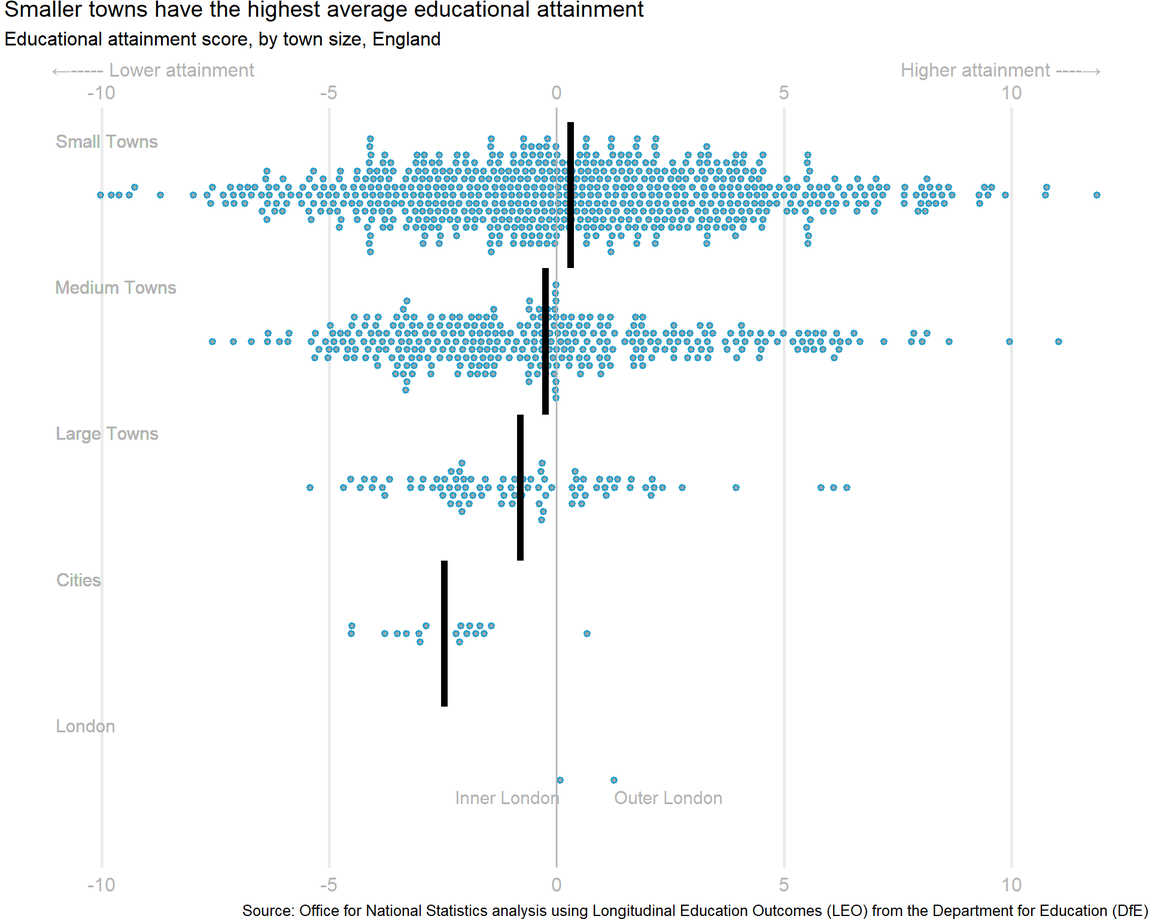
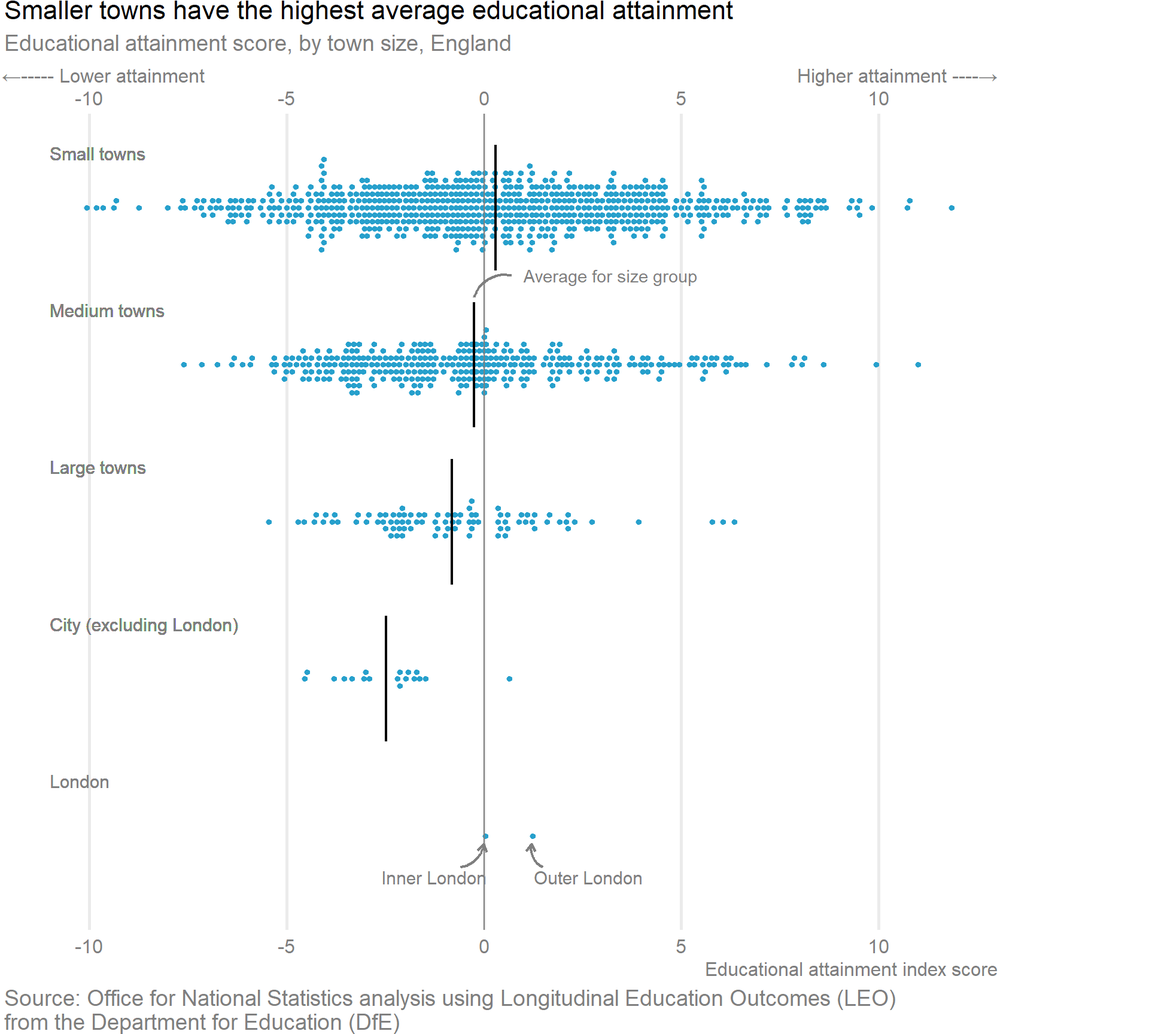
0.052

diff --git a/docs/dot.html b/docs/dot.html
@@ -445,7 +445,11 @@ pre > code.sourceCode > span > a:first-child::before { text-decoration: underlin
   
 
 
-</header><div class="cell">
+</header><div class="quarto-figure quarto-figure-center">
+<figure class="figure"><p><a href="https://www.ons.gov.uk/peoplepopulationandcommunity/educationandchildcare/articles/whydochildrenandyoungpeopleinsmallertownsdobetteracademicallythanthoseinlargertowns/2023-07-25"><img src="img/dot.png" class="img-fluid figure-img" alt="The original graph obtained from Office for National Statistics analysis using Longitudinal Education Outcomes (LEO) from the Department for Education (DfE)"></a></p>
+<figcaption>The original graph obtained from Office for National Statistics analysis using Longitudinal Education Outcomes (LEO) from the Department for Education (DfE)</figcaption></figure>
+</div>
+<div class="cell">
 <div class="sourceCode" id="cb1"><pre class="downlit sourceCode r code-with-copy"><code class="sourceCode R"><span><span class="kw"><a href="https://rdrr.io/r/base/library.html">library</a></span><span class="op">(</span><span class="va"><a href="https://tidyverse.tidyverse.org">tidyverse</a></span><span class="op">)</span>      <span class="co"># Data Wrangling and Plotting</span></span>
 <span><span class="kw"><a href="https://rdrr.io/r/base/library.html">library</a></span><span class="op">(</span><span class="va"><a href="https://here.r-lib.org/">here</a></span><span class="op">)</span>           <span class="co"># Files location and loading</span></span>
 <span><span class="kw"><a href="https://rdrr.io/r/base/library.html">library</a></span><span class="op">(</span><span class="va"><a href="https://github.com/yixuan/showtext">showtext</a></span><span class="op">)</span>       <span class="co"># Using Fonts More Easily in R Graphs</span></span>
@@ -469,13 +473,8 @@ pre > code.sourceCode > span > a:first-child::before { text-decoration: underlin
 <span><span class="va">ts</span> <span class="op">=</span> <span class="fu"><a href="https://rdrr.io/r/grid/unit.html">unit</a></span><span class="op">(</span><span class="fl">20</span>, units <span class="op">=</span> <span class="st">"cm"</span><span class="op">)</span>   </span></code><button title="Copy to Clipboard" class="code-copy-button"><i class="bi"></i></button></pre></div>
 </div>
 <div class="cell">
-<div class="sourceCode" id="cb3"><pre class="downlit sourceCode r code-with-copy"><code class="sourceCode R"><span><span class="co">#==============================================================================#</span></span>
-<span><span class="co"># Data Wrangling----------------------------------------------------------------</span></span>
-<span><span class="co">#==============================================================================#</span></span>
+<div class="sourceCode" id="cb3"><pre class="downlit sourceCode r code-with-copy"><code class="sourceCode R"><span><span class="va">city_levels</span> <span class="op">&lt;-</span> <span class="fu"><a href="https://rdrr.io/r/base/c.html">c</a></span><span class="op">(</span><span class="st">"Small Towns"</span>, <span class="st">"Medium Towns"</span>, <span class="st">"Large Towns"</span>, <span class="st">"Cities"</span>, <span class="st">"London"</span><span class="op">)</span></span>
 <span></span>
-<span><span class="va">city_levels</span> <span class="op">&lt;-</span> <span class="fu"><a href="https://rdrr.io/r/base/c.html">c</a></span><span class="op">(</span><span class="st">"Small Towns"</span>, <span class="st">"Medium Towns"</span>, <span class="st">"Large Towns"</span>, <span class="st">"Cities"</span>, <span class="st">"London"</span><span class="op">)</span></span>
-<span></span>
-<span><span class="va">inc_levels</span> <span class="op">=</span> <span class="fu"><a href="https://rdrr.io/r/base/c.html">c</a></span><span class="op">(</span><span class="st">"Poorer Towns"</span>, <span class="st">"Mid-Income Towns"</span>, <span class="st">"Richer Towns"</span>, <span class="st">"Cities"</span><span class="op">)</span></span>
 <span></span>
 <span><span class="va">df</span> <span class="op">&lt;-</span> <span class="va">english_education</span> <span class="op">|&gt;</span> </span>
 <span>  <span class="co"># Add populations of Inner and Outer London</span></span>
@@ -497,36 +496,22 @@ pre > code.sourceCode > span > a:first-child::before { text-decoration: underlin
 <span>    <span class="va">size_flag</span> <span class="op"><a href="https://rdrr.io/r/base/match.html">%in%</a></span> <span class="va">city_levels</span></span>
 <span>  <span class="op">)</span> <span class="op">|&gt;</span> </span>
 <span>  <span class="fu"><a href="https://dplyr.tidyverse.org/reference/mutate.html">mutate</a></span><span class="op">(</span></span>
-<span>    size_flag <span class="op">=</span> <span class="fu"><a href="https://forcats.tidyverse.org/reference/fct.html">fct</a></span><span class="op">(</span><span class="va">size_flag</span>, levels <span class="op">=</span> <span class="va">city_levels</span><span class="op">)</span>,</span>
+<span>    size_flag <span class="op">=</span> <span class="fu"><a href="https://rdrr.io/r/base/factor.html">factor</a></span><span class="op">(</span><span class="va">size_flag</span>, levels <span class="op">=</span> <span class="va">city_levels</span>, labels <span class="op">=</span> <span class="fu"><a href="https://rdrr.io/r/base/c.html">c</a></span><span class="op">(</span><span class="st">"Small towns"</span>, <span class="st">"Medium towns"</span>, <span class="st">"Large towns"</span>, <span class="st">"City (excluding London)"</span>, <span class="st">"London"</span><span class="op">)</span><span class="op">)</span>,</span>
 <span>    size_flag <span class="op">=</span> <span class="fu"><a href="https://forcats.tidyverse.org/reference/fct_rev.html">fct_rev</a></span><span class="op">(</span><span class="va">size_flag</span><span class="op">)</span></span>
-<span>  <span class="op">)</span> <span class="op">|&gt;</span> </span>
-<span>  <span class="fu"><a href="https://dplyr.tidyverse.org/reference/mutate.html">mutate</a></span><span class="op">(</span></span>
-<span>    income_flag <span class="op">=</span> <span class="fu"><a href="https://dplyr.tidyverse.org/reference/case_when.html">case_when</a></span><span class="op">(</span></span>
-<span>      <span class="va">income_flag</span> <span class="op"><a href="https://rdrr.io/r/base/match.html">%in%</a></span> <span class="fu"><a href="https://rdrr.io/r/base/c.html">c</a></span><span class="op">(</span><span class="st">"Cities"</span>, <span class="cn">NA</span><span class="op">)</span> <span class="op">~</span> <span class="st">"Cities"</span>,</span>
-<span>      <span class="va">income_flag</span> <span class="op">==</span> <span class="st">"Higher deprivation towns"</span> <span class="op">~</span> <span class="st">"Poorer Towns"</span>,</span>
-<span>      <span class="va">income_flag</span> <span class="op">==</span> <span class="st">"Mid deprivation towns"</span> <span class="op">~</span> <span class="st">"Mid-Income Towns"</span>,</span>
-<span>      <span class="va">income_flag</span> <span class="op">==</span> <span class="st">"Lower deprivation towns"</span> <span class="op">~</span> <span class="st">"Richer Towns"</span></span>
-<span>    <span class="op">)</span>,</span>
-<span>    income_flag <span class="op">=</span> <span class="fu"><a href="https://forcats.tidyverse.org/reference/fct.html">fct</a></span><span class="op">(</span><span class="va">income_flag</span>,</span>
-<span>                      levels <span class="op">=</span> <span class="va">inc_levels</span><span class="op">)</span></span>
 <span>  <span class="op">)</span></span>
 <span></span>
-<span><span class="co"># Weighted mean educational attainment scores</span></span>
+<span><span class="co"># mean educational attainment scores</span></span>
 <span><span class="va">df1</span> <span class="op">&lt;-</span> <span class="va">df</span> <span class="op">|&gt;</span> </span>
 <span>  <span class="fu"><a href="https://dplyr.tidyverse.org/reference/group_by.html">group_by</a></span><span class="op">(</span><span class="va">size_flag</span><span class="op">)</span> <span class="op">|&gt;</span> </span>
 <span>  <span class="fu"><a href="https://dplyr.tidyverse.org/reference/summarise.html">summarise</a></span><span class="op">(</span></span>
-<span>    mean_ed_score <span class="op">=</span> <span class="fu"><a href="https://rdrr.io/r/base/mean.html">mean</a></span><span class="op">(</span><span class="va">education_score</span>, na.rm <span class="op">=</span> <span class="cn">T</span><span class="op">)</span>,</span>
-<span>    med_ed_score <span class="op">=</span> <span class="fu"><a href="https://rdrr.io/r/stats/median.html">median</a></span><span class="op">(</span><span class="va">education_score</span>, na.rm <span class="op">=</span> <span class="cn">T</span><span class="op">)</span>,</span>
-<span>    w_mean <span class="op">=</span> <span class="fu"><a href="https://rdrr.io/r/stats/weighted.mean.html">weighted.mean</a></span><span class="op">(</span>x <span class="op">=</span> <span class="va">education_score</span>,</span>
-<span>                           w <span class="op">=</span> <span class="va">population_2011</span>,</span>
-<span>                           na.rm <span class="op">=</span> <span class="cn">T</span><span class="op">)</span></span>
+<span>    mean_ed_score <span class="op">=</span> <span class="fu"><a href="https://rdrr.io/r/base/mean.html">mean</a></span><span class="op">(</span><span class="va">education_score</span>, na.rm <span class="op">=</span> <span class="cn">T</span><span class="op">)</span>, na.rm <span class="op">=</span> <span class="cn">T</span></span>
 <span>  <span class="op">)</span> <span class="op">|&gt;</span> </span>
 <span>  <span class="fu"><a href="https://dplyr.tidyverse.org/reference/filter.html">filter</a></span><span class="op">(</span><span class="va">size_flag</span><span class="op">!=</span><span class="st">"London"</span><span class="op">)</span></span>
 <span></span>
 <span><span class="co"># Overall weighted mean Educational Attainment Score for UK</span></span>
 <span><span class="va">uk_mean</span> <span class="op">&lt;-</span> <span class="va">df</span> <span class="op">|&gt;</span> </span>
 <span>  <span class="fu"><a href="https://dplyr.tidyverse.org/reference/summarise.html">summarize</a></span><span class="op">(</span></span>
-<span>    uk_mean <span class="op">=</span> <span class="fu"><a href="https://rdrr.io/r/stats/weighted.mean.html">weighted.mean</a></span><span class="op">(</span><span class="va">education_score</span>, w <span class="op">=</span> <span class="va">population_2011</span><span class="op">)</span></span>
+<span>    uk_mean <span class="op">=</span> <span class="fu"><a href="https://rdrr.io/r/base/mean.html">mean</a></span><span class="op">(</span><span class="va">education_score</span><span class="op">)</span></span>
 <span>  <span class="op">)</span> <span class="op">|&gt;</span> </span>
 <span>  <span class="fu"><a href="https://purrr.tidyverse.org/reference/as_vector.html">as_vector</a></span><span class="op">(</span><span class="op">)</span> <span class="op">|&gt;</span> </span>
 <span>  <span class="fu"><a href="https://rdrr.io/r/base/unname.html">unname</a></span><span class="op">(</span><span class="op">)</span></span>
@@ -546,61 +531,80 @@ pre > code.sourceCode > span > a:first-child::before { text-decoration: underlin
 <span>  <span class="op">)</span> <span class="op">|&gt;</span></span>
 <span>  <span class="fu"><a href="https://dplyr.tidyverse.org/reference/filter.html">filter</a></span><span class="op">(</span><span class="va">town_name</span> <span class="op"><a href="https://rdrr.io/r/base/match.html">%in%</a></span> <span class="va">label_cities</span><span class="op">)</span></span>
 <span></span>
-<span><span class="co">#==============================================================================#</span></span>
-<span><span class="co"># Options &amp; Visualization Parameters--------------------------------------------</span></span>
-<span><span class="co">#==============================================================================#</span></span>
-<span></span>
 <span><span class="va">plot_caption</span> <span class="op">&lt;-</span> <span class="fu"><a href="https://rdrr.io/r/base/paste.html">paste0</a></span><span class="op">(</span><span class="st">"**Data &amp; Inspiration:** Center for Public Integrity | "</span>, <span class="st">"**Graphics:** "</span><span class="op">)</span></span></code><button title="Copy to Clipboard" class="code-copy-button"><i class="bi"></i></button></pre></div>
 </div>
 <div class="cell page-columns page-full">
-<div class="sourceCode" id="cb4"><pre class="downlit sourceCode r code-with-copy"><code class="sourceCode R"><span><span class="co">#==============================================================================#</span></span>
-<span><span class="co"># Data Visualization------------------------------------------------------------</span></span>
-<span><span class="co">#==============================================================================#</span></span>
-<span><span class="co"># For Beeswarm</span></span>
-<span><span class="kw"><a href="https://rdrr.io/r/base/library.html">library</a></span><span class="op">(</span><span class="va"><a href="https://github.com/eclarke/ggbeeswarm">ggbeeswarm</a></span><span class="op">)</span></span></code><button title="Copy to Clipboard" class="code-copy-button"><i class="bi"></i></button></pre></div>
-<div class="cell-output cell-output-stderr">
-<pre><code>Warning: package 'ggbeeswarm' was built under R version 4.3.1</code></pre>
-</div>
-<div class="sourceCode" id="cb6"><pre class="downlit sourceCode r code-with-copy"><code class="sourceCode R"><span><span class="co"># For vertical markers</span></span>
-<span><span class="co">#devtools::install_github("wilkelab/ungeviz")</span></span>
-<span><span class="kw"><a href="https://rdrr.io/r/base/library.html">library</a></span><span class="op">(</span><span class="va"><a href="https://github.com/wilkelab/ungeviz">ungeviz</a></span><span class="op">)</span></span>
-<span></span>
-<span><span class="fu"><a href="https://ggplot2.tidyverse.org/reference/ggplot.html">ggplot</a></span><span class="op">(</span>data <span class="op">=</span> <span class="va">df</span><span class="op">)</span> <span class="op">+</span></span>
-<span>  <span class="fu">ggdist</span><span class="fu">::</span><span class="fu"><a href="http://mjskay.github.io/ggdist/reference/geom_dots.html">geom_dots</a></span><span class="op">(</span><span class="fu"><a href="https://ggplot2.tidyverse.org/reference/aes.html">aes</a></span><span class="op">(</span>x <span class="op">=</span> <span class="va">education_score</span>, y <span class="op">=</span> <span class="va">size_flag</span><span class="op">)</span>, side <span class="op">=</span> <span class="st">"both"</span>, layout <span class="op">=</span> <span class="st">"weave"</span>,</span>
-<span>                            color <span class="op">=</span> <span class="st">"#27A0CC"</span>, </span>
-<span>                            size<span class="op">=</span> <span class="fl">1.0</span><span class="op">)</span> <span class="op">+</span></span>
-<span>  <span class="fu"><a href="https://ggplot2.tidyverse.org/reference/geom_text.html">geom_text</a></span><span class="op">(</span><span class="fu"><a href="https://ggplot2.tidyverse.org/reference/aes.html">aes</a></span><span class="op">(</span>x <span class="op">=</span> <span class="op">-</span><span class="fl">11</span>, y <span class="op">=</span> <span class="va">size_flag</span>, label <span class="op">=</span> <span class="va">size_flag</span><span class="op">)</span>, color <span class="op">=</span> <span class="st">"grey70"</span>,</span>
-<span>            size<span class="op">=</span> <span class="fl">4.0</span>, vjust <span class="op">=</span> <span class="op">-</span><span class="fl">3.5</span>, hjust <span class="op">=</span> <span class="fl">0.01</span><span class="op">)</span> <span class="op">+</span> </span>
-<span>  <span class="fu"><a href="https://rdrr.io/pkg/ungeviz/man/geom_hpline.html">geom_vpline</a></span><span class="op">(</span>data <span class="op">=</span> <span class="va">df1</span>, mapping <span class="op">=</span> <span class="fu"><a href="https://ggplot2.tidyverse.org/reference/aes.html">aes</a></span><span class="op">(</span>x <span class="op">=</span> <span class="va">mean_ed_score</span>, y <span class="op">=</span> <span class="va">size_flag</span><span class="op">)</span>,</span>
-<span>              height <span class="op">=</span> <span class="fl">1.0</span>, size <span class="op">=</span> <span class="fl">0.1</span><span class="op">)</span> <span class="op">+</span></span>
-<span>  <span class="fu"><a href="https://ggplot2.tidyverse.org/reference/geom_abline.html">geom_vline</a></span><span class="op">(</span>xintercept <span class="op">=</span> <span class="fl">0</span>, linetype <span class="op">=</span> <span class="fl">1</span>, color <span class="op">=</span> <span class="st">"grey70"</span><span class="op">)</span> <span class="op">+</span></span>
-<span>  <span class="fu"><a href="https://ggplot2.tidyverse.org/reference/geom_text.html">geom_text</a></span><span class="op">(</span>data <span class="op">=</span> <span class="va">df2</span>, color <span class="op">=</span> <span class="st">"grey70"</span>,</span>
+<div class="sourceCode" id="cb4"><pre class="downlit sourceCode r code-with-copy"><code class="sourceCode R"><span><span class="fu"><a href="https://ggplot2.tidyverse.org/reference/ggplot.html">ggplot</a></span><span class="op">(</span>data <span class="op">=</span> <span class="va">df</span>, <span class="fu"><a href="https://ggplot2.tidyverse.org/reference/aes.html">aes</a></span><span class="op">(</span>x <span class="op">=</span> <span class="va">education_score</span>, y <span class="op">=</span> <span class="va">size_flag</span><span class="op">)</span>, <span class="op">)</span> <span class="op">+</span></span>
+<span>  <span class="fu">ggdist</span><span class="fu">::</span><span class="fu"><a href="http://mjskay.github.io/ggdist/reference/geom_dots.html">geom_dots</a></span><span class="op">(</span>side <span class="op">=</span> <span class="st">"both"</span>, layout <span class="op">=</span> <span class="st">"hex"</span>, slab_shape <span class="op">=</span> <span class="fl">21</span>, width<span class="op">=</span><span class="fl">0.7</span>,</span>
+<span>                            slab_color <span class="op">=</span> <span class="st">"#27A0CC"</span>, slab_fill <span class="op">=</span> <span class="st">"#27A0CC"</span>,</span>
+<span>                    scale <span class="op">=</span> <span class="fl">0.62</span>,</span>
+<span>                            dotsize<span class="op">=</span> <span class="fl">1.5</span><span class="op">)</span> <span class="op">+</span></span>
+<span>  <span class="fu"><a href="https://ggplot2.tidyverse.org/reference/geom_text.html">geom_text</a></span><span class="op">(</span><span class="fu"><a href="https://ggplot2.tidyverse.org/reference/aes.html">aes</a></span><span class="op">(</span>x <span class="op">=</span> <span class="op">-</span><span class="fl">11</span>, y <span class="op">=</span> <span class="va">size_flag</span>, label <span class="op">=</span> <span class="va">size_flag</span><span class="op">)</span>, color <span class="op">=</span> <span class="st">"grey50"</span>, </span>
+<span>            size<span class="op">=</span> <span class="fl">4.0</span>, vjust <span class="op">=</span> <span class="op">-</span><span class="fl">3.5</span>, hjust <span class="op">=</span> <span class="fl">0</span><span class="op">)</span> <span class="op">+</span> </span>
+<span>  <span class="fu"><a href="https://ggplot2.tidyverse.org/reference/geom_abline.html">geom_vline</a></span><span class="op">(</span>xintercept <span class="op">=</span> <span class="fl">0</span>, linetype <span class="op">=</span> <span class="fl">1</span>, color <span class="op">=</span> <span class="st">"grey50"</span><span class="op">)</span> <span class="op">+</span></span>
+<span>  <span class="fu"><a href="https://ggplot2.tidyverse.org/reference/geom_text.html">geom_text</a></span><span class="op">(</span>data <span class="op">=</span> <span class="va">df2</span>, color <span class="op">=</span> <span class="st">"grey50"</span>, vjust <span class="op">=</span> <span class="op">+</span> <span class="fl">3.5</span>,</span>
 <span>            mapping <span class="op">=</span> <span class="fu"><a href="https://ggplot2.tidyverse.org/reference/aes.html">aes</a></span><span class="op">(</span>x <span class="op">=</span> <span class="va">education_score</span>, y <span class="op">=</span> <span class="va">size_flag</span>,</span>
 <span>                          label <span class="op">=</span> <span class="va">town_name</span>, hjust <span class="op">=</span> <span class="fu"><a href="https://dplyr.tidyverse.org/reference/case_when.html">case_when</a></span><span class="op">(</span><span class="va">town_name</span> <span class="op">==</span> <span class="st">"Outer London"</span> <span class="op">~</span> <span class="fl">0</span>, </span>
 <span>                                                               <span class="va">town_name</span> <span class="op"><a href="https://rdrr.io/r/base/match.html">%in%</a></span> <span class="fu"><a href="https://rdrr.io/r/base/c.html">c</a></span><span class="op">(</span><span class="st">"Inner London"</span>, <span class="st">"Olney"</span><span class="op">)</span> <span class="op">~</span> <span class="fl">1</span>,</span>
 <span>                                                                           .default <span class="op">=</span> <span class="fl">0.5</span><span class="op">)</span><span class="op">)</span>,</span>
 <span>            vjust <span class="op">=</span> <span class="fl">1.7</span>, size <span class="op">=</span> <span class="fl">0.2</span> <span class="op">*</span> <span class="va">ts</span><span class="op">)</span> <span class="op">+</span></span>
 <span>  <span class="fu"><a href="https://ggplot2.tidyverse.org/reference/scale_continuous.html">scale_x_continuous</a></span><span class="op">(</span></span>
-<span>    minor_breaks <span class="op">=</span> <span class="op">(</span><span class="op">-</span><span class="fl">10</span><span class="op">:</span><span class="fl">10</span><span class="op">)</span>, sec.axis <span class="op">=</span> <span class="fu"><a href="https://ggplot2.tidyverse.org/reference/sec_axis.html">sec_axis</a></span><span class="op">(</span><span class="op">~</span><span class="va">.</span>, name <span class="op">=</span> <span class="cn">NULL</span><span class="op">)</span>, position <span class="op">=</span> <span class="st">"top"</span></span>
+<span>    minor_breaks <span class="op">=</span> <span class="op">(</span><span class="op">-</span><span class="fl">10</span><span class="op">:</span><span class="fl">10</span><span class="op">)</span>, sec.axis <span class="op">=</span> <span class="fu"><a href="https://ggplot2.tidyverse.org/reference/sec_axis.html">sec_axis</a></span><span class="op">(</span><span class="op">~</span><span class="va">.</span>, name <span class="op">=</span> <span class="st">"Educational attainment index score"</span><span class="op">)</span>, position <span class="op">=</span> <span class="st">"top"</span></span>
 <span>  <span class="op">)</span> <span class="op">+</span></span>
 <span>  <span class="fu"><a href="https://ggplot2.tidyverse.org/reference/labs.html">labs</a></span><span class="op">(</span>title <span class="op">=</span> <span class="st">"Smaller towns have the highest average educational attainment"</span>,</span>
 <span>       subtitle <span class="op">=</span> <span class="st">"Educational attainment score, by town size, England"</span>,</span>
-<span>       x <span class="op">=</span> <span class="fu"><a href="https://rdrr.io/r/base/paste.html">paste0</a></span><span class="op">(</span><span class="st">"←----- Lower attainment"</span>, <span class="fu"><a href="https://rdrr.io/r/base/strrep.html">strrep</a></span><span class="op">(</span><span class="st">" "</span>, <span class="fl">60</span><span class="op">)</span>,  <span class="fu"><a href="https://rdrr.io/r/base/strrep.html">strrep</a></span><span class="op">(</span><span class="st">" "</span>, <span class="fl">60</span><span class="op">)</span>, <span class="st">"Higher attainment ----→"</span><span class="op">)</span>,</span>
-<span>       color <span class="op">=</span> <span class="st">"Town income\ndeprivation"</span>,</span>
-<span>       caption <span class="op">=</span> <span class="st">"Source: Office for National Statistics analysis using Longitudinal Education Outcomes (LEO) from the Department for Education (DfE)"</span><span class="op">)</span> <span class="op">+</span></span>
+<span>       x <span class="op">=</span> <span class="fu"><a href="https://rdrr.io/r/base/paste.html">paste0</a></span><span class="op">(</span><span class="st">"←----- Lower attainment"</span>, <span class="fu"><a href="https://rdrr.io/r/base/strrep.html">strrep</a></span><span class="op">(</span><span class="st">" "</span>, <span class="fl">55</span><span class="op">)</span>,  <span class="fu"><a href="https://rdrr.io/r/base/strrep.html">strrep</a></span><span class="op">(</span><span class="st">" "</span>, <span class="fl">55</span><span class="op">)</span>, <span class="st">"Higher attainment ----→"</span><span class="op">)</span>,</span>
+<span>       caption <span class="op">=</span> <span class="st">"Source: Office for National Statistics analysis using Longitudinal Education Outcomes (LEO)\nfrom the Department for Education (DfE)"</span><span class="op">)</span> <span class="op">+</span></span>
+<span>   <span class="fu"><a href="https://ggplot2.tidyverse.org/reference/annotate.html">annotate</a></span><span class="op">(</span></span>
+<span>    geom <span class="op">=</span> <span class="st">"curve"</span>,</span>
+<span>    x <span class="op">=</span> <span class="op">-</span><span class="fl">0.6</span>,</span>
+<span>    xend <span class="op">=</span> <span class="va">uk_mean</span>,</span>
+<span>    y <span class="op">=</span> <span class="fl">0.8</span>,</span>
+<span>    yend <span class="op">=</span> <span class="fl">0.95</span>,</span>
+<span>    arrow <span class="op">=</span> <span class="fu"><a href="https://rdrr.io/r/grid/arrow.html">arrow</a></span><span class="op">(</span>length <span class="op">=</span> <span class="fu"><a href="https://rdrr.io/r/grid/unit.html">unit</a></span><span class="op">(</span><span class="fl">2</span>, <span class="st">"mm"</span><span class="op">)</span><span class="op">)</span>,</span>
+<span>    curvature <span class="op">=</span> <span class="fl">0.35</span>,</span>
+<span>    color <span class="op">=</span> <span class="st">"grey50"</span>,</span>
+<span>    linewidth <span class="op">=</span> <span class="fl">0.8</span></span>
+<span>  <span class="op">)</span> <span class="op">+</span></span>
+<span>     <span class="fu"><a href="https://ggplot2.tidyverse.org/reference/annotate.html">annotate</a></span><span class="op">(</span></span>
+<span>    geom <span class="op">=</span> <span class="st">"curve"</span>,</span>
+<span>    x <span class="op">=</span> <span class="fl">1.5</span>,</span>
+<span>    xend <span class="op">=</span> <span class="fl">1.2</span>,</span>
+<span>    y <span class="op">=</span> <span class="fl">0.8</span>,</span>
+<span>    yend <span class="op">=</span> <span class="fl">0.95</span>,</span>
+<span>    arrow <span class="op">=</span> <span class="fu"><a href="https://rdrr.io/r/grid/arrow.html">arrow</a></span><span class="op">(</span>length <span class="op">=</span> <span class="fu"><a href="https://rdrr.io/r/grid/unit.html">unit</a></span><span class="op">(</span><span class="fl">2</span>, <span class="st">"mm"</span><span class="op">)</span><span class="op">)</span>,</span>
+<span>    curvature <span class="op">=</span> <span class="op">-</span> <span class="fl">0.35</span>,</span>
+<span>    color <span class="op">=</span> <span class="st">"grey50"</span>,</span>
+<span>    linewidth <span class="op">=</span> <span class="fl">0.8</span></span>
+<span>  <span class="op">)</span> <span class="op">+</span></span>
+<span>  <span class="fu"><a href="https://ggplot2.tidyverse.org/reference/annotate.html">annotate</a></span><span class="op">(</span><span class="st">"segment"</span>, x <span class="op">=</span> <span class="va">df1</span><span class="op">$</span><span class="va">mean_ed_score</span><span class="op">[</span><span class="fl">1</span><span class="op">]</span>, xend <span class="op">=</span> <span class="va">df1</span><span class="op">$</span><span class="va">mean_ed_score</span><span class="op">[</span><span class="fl">1</span><span class="op">]</span>, y <span class="op">=</span> <span class="fl">1.6</span>, yend <span class="op">=</span> <span class="fl">2.4</span>, linewidth <span class="op">=</span> <span class="fl">0.8</span><span class="op">)</span> <span class="op">+</span></span>
+<span>    <span class="fu"><a href="https://ggplot2.tidyverse.org/reference/annotate.html">annotate</a></span><span class="op">(</span><span class="st">"segment"</span>, x <span class="op">=</span> <span class="va">df1</span><span class="op">$</span><span class="va">mean_ed_score</span><span class="op">[</span><span class="fl">2</span><span class="op">]</span>, xend <span class="op">=</span> <span class="va">df1</span><span class="op">$</span><span class="va">mean_ed_score</span><span class="op">[</span><span class="fl">2</span><span class="op">]</span>, y <span class="op">=</span> <span class="fl">2.6</span>, yend <span class="op">=</span> <span class="fl">3.4</span>, linewidth <span class="op">=</span> <span class="fl">0.8</span><span class="op">)</span> <span class="op">+</span></span>
+<span>      <span class="fu"><a href="https://ggplot2.tidyverse.org/reference/annotate.html">annotate</a></span><span class="op">(</span><span class="st">"segment"</span>, x <span class="op">=</span> <span class="va">df1</span><span class="op">$</span><span class="va">mean_ed_score</span><span class="op">[</span><span class="fl">3</span><span class="op">]</span>, xend <span class="op">=</span> <span class="va">df1</span><span class="op">$</span><span class="va">mean_ed_score</span><span class="op">[</span><span class="fl">3</span><span class="op">]</span>, y <span class="op">=</span> <span class="fl">3.6</span>, yend <span class="op">=</span> <span class="fl">4.4</span>, linewidth <span class="op">=</span> <span class="fl">0.8</span><span class="op">)</span> <span class="op">+</span></span>
+<span>      <span class="fu"><a href="https://ggplot2.tidyverse.org/reference/annotate.html">annotate</a></span><span class="op">(</span><span class="st">"segment"</span>, x <span class="op">=</span> <span class="va">df1</span><span class="op">$</span><span class="va">mean_ed_score</span><span class="op">[</span><span class="fl">4</span><span class="op">]</span>, xend <span class="op">=</span> <span class="va">df1</span><span class="op">$</span><span class="va">mean_ed_score</span><span class="op">[</span><span class="fl">4</span><span class="op">]</span>, y <span class="op">=</span> <span class="fl">4.6</span>, yend <span class="op">=</span> <span class="fl">5.4</span>, linewidth <span class="op">=</span> <span class="fl">0.8</span><span class="op">)</span> <span class="op">+</span></span>
+<span>  <span class="fu"><a href="https://ggplot2.tidyverse.org/reference/annotate.html">annotate</a></span><span class="op">(</span><span class="st">"text"</span>, x <span class="op">=</span> <span class="fl">3.2</span>, y <span class="op">=</span> <span class="fl">4.57</span>, label <span class="op">=</span> <span class="st">"Average for size group"</span>, color <span class="op">=</span> <span class="st">"grey50"</span><span class="op">)</span> <span class="op">+</span></span>
+<span>    <span class="fu"><a href="https://ggplot2.tidyverse.org/reference/annotate.html">annotate</a></span><span class="op">(</span></span>
+<span>    geom <span class="op">=</span> <span class="st">"curve"</span>,</span>
+<span>    x <span class="op">=</span> <span class="va">uk_mean</span> <span class="op">+</span> <span class="fl">0.7</span>,</span>
+<span>    xend <span class="op">=</span> <span class="va">df1</span><span class="op">$</span><span class="va">mean_ed_score</span><span class="op">[</span><span class="fl">3</span><span class="op">]</span>,</span>
+<span>    y <span class="op">=</span> <span class="fl">4.57</span>,</span>
+<span>    yend <span class="op">=</span> <span class="fl">4.43</span>,</span>
+<span>    curvature <span class="op">=</span> <span class="fl">0.4</span>,</span>
+<span>    color <span class="op">=</span> <span class="st">"grey50"</span>,</span>
+<span>    linewidth <span class="op">=</span> <span class="fl">0.8</span></span>
+<span>  <span class="op">)</span> <span class="op">+</span></span>
 <span>  <span class="fu"><a href="https://ggplot2.tidyverse.org/reference/ggtheme.html">theme_minimal</a></span><span class="op">(</span>base_size <span class="op">=</span> <span class="fl">12</span><span class="op">)</span> <span class="op">+</span></span>
-<span>  <span class="fu"><a href="https://ggplot2.tidyverse.org/reference/theme.html">theme</a></span><span class="op">(</span>plot.margin <span class="op">=</span> <span class="fu"><a href="https://ggplot2.tidyverse.org/reference/element.html">margin</a></span><span class="op">(</span><span class="fl">0</span>, <span class="fl">0</span>, <span class="fl">0</span>, <span class="fl">0</span><span class="op">)</span>,</span>
-<span>        axis.title <span class="op">=</span> <span class="fu"><a href="https://ggplot2.tidyverse.org/reference/element.html">element_text</a></span><span class="op">(</span>color <span class="op">=</span> <span class="st">"grey70"</span><span class="op">)</span>,</span>
-<span>        axis.text <span class="op">=</span> <span class="fu"><a href="https://ggplot2.tidyverse.org/reference/element.html">element_text</a></span><span class="op">(</span>size <span class="op">=</span> <span class="fl">12</span>, color <span class="op">=</span> <span class="st">"grey70"</span><span class="op">)</span>,</span>
+<span>  <span class="fu"><a href="https://ggplot2.tidyverse.org/reference/theme.html">theme</a></span><span class="op">(</span>plot.margin <span class="op">=</span> <span class="fu"><a href="https://ggplot2.tidyverse.org/reference/element.html">margin</a></span><span class="op">(</span><span class="fl">0</span>, <span class="fl">95</span>, <span class="fl">0</span>, <span class="fl">0</span><span class="op">)</span>,</span>
+<span>        plot.title <span class="op">=</span> <span class="fu"><a href="https://ggplot2.tidyverse.org/reference/element.html">element_text</a></span><span class="op">(</span>size <span class="op">=</span> <span class="fl">16</span><span class="op">)</span>,</span>
+<span>        plot.subtitle <span class="op">=</span> <span class="fu"><a href="https://ggplot2.tidyverse.org/reference/element.html">element_text</a></span><span class="op">(</span>size <span class="op">=</span> <span class="fl">14</span>, color <span class="op">=</span> <span class="st">"grey50"</span><span class="op">)</span>,</span>
+<span>        plot.caption <span class="op">=</span> <span class="fu"><a href="https://ggplot2.tidyverse.org/reference/element.html">element_text</a></span><span class="op">(</span>size <span class="op">=</span> <span class="fl">14</span>, color <span class="op">=</span> <span class="st">"grey50"</span>, hjust <span class="op">=</span> <span class="fl">0</span><span class="op">)</span>,</span>
+<span>        axis.title <span class="op">=</span> <span class="fu"><a href="https://ggplot2.tidyverse.org/reference/element.html">element_text</a></span><span class="op">(</span>color <span class="op">=</span> <span class="st">"grey50"</span><span class="op">)</span>,</span>
+<span>        axis.title.x <span class="op">=</span> <span class="fu"><a href="https://ggplot2.tidyverse.org/reference/element.html">element_text</a></span><span class="op">(</span>hjust <span class="op">=</span> <span class="fl">1</span><span class="op">)</span>,</span>
+<span>        axis.text <span class="op">=</span> <span class="fu"><a href="https://ggplot2.tidyverse.org/reference/element.html">element_text</a></span><span class="op">(</span>size <span class="op">=</span> <span class="fl">12</span>, color <span class="op">=</span> <span class="st">"grey50"</span><span class="op">)</span>,</span>
 <span>        panel.grid.minor <span class="op">=</span> <span class="fu"><a href="https://ggplot2.tidyverse.org/reference/element.html">element_blank</a></span><span class="op">(</span><span class="op">)</span>,</span>
 <span>        panel.grid.major.y <span class="op">=</span> <span class="fu"><a href="https://ggplot2.tidyverse.org/reference/element.html">element_blank</a></span><span class="op">(</span><span class="op">)</span>,</span>
 <span>        panel.grid.major.x <span class="op">=</span> <span class="fu"><a href="https://ggplot2.tidyverse.org/reference/element.html">element_line</a></span><span class="op">(</span>linewidth <span class="op">=</span> <span class="fl">1</span><span class="op">)</span>,</span>
 <span>    axis.text.y <span class="op">=</span> <span class="fu"><a href="https://ggplot2.tidyverse.org/reference/element.html">element_blank</a></span><span class="op">(</span><span class="op">)</span>,</span>
 <span>    axis.title.y <span class="op">=</span> <span class="fu"><a href="https://ggplot2.tidyverse.org/reference/element.html">element_blank</a></span><span class="op">(</span><span class="op">)</span><span class="op">)</span></span></code><button title="Copy to Clipboard" class="code-copy-button"><i class="bi"></i></button></pre></div>
-<div class="cell-output cell-output-stderr">
-<pre><code>Warning: Using the `size` aesthetic in this geom was deprecated in ggplot2 3.4.0.
-ℹ Please use `linewidth` in the `default_aes` field and elsewhere instead.</code></pre>
-</div>
 <div class="cell-output-display page-columns page-full">
 <div class="page-columns page-full">
 <figure class="figure page-columns page-full"><p class="page-columns page-full"><img src="dot_files/figure-html/unnamed-chunk-5-1.png" class="img-fluid figure-img column-page-right" width="960"></p>
